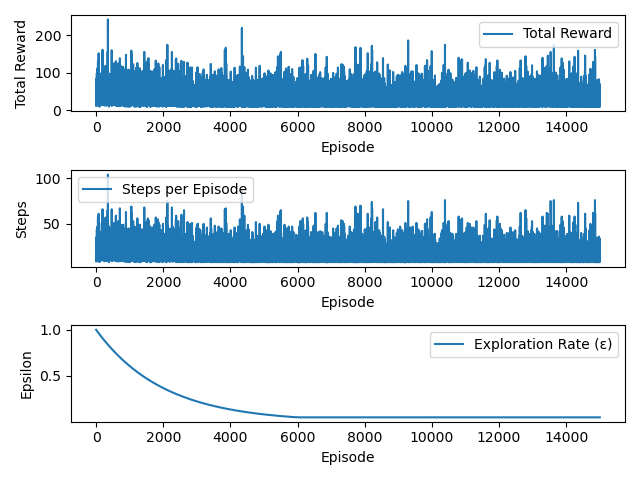
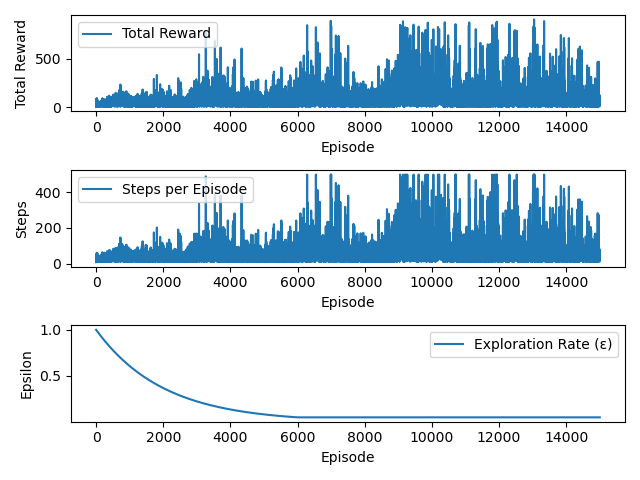
updated reward function using alive, angle, position and velocity penalty

diff --git a/assignments/cart_pole_optimal_control/cart_pole_optimal_control/dqn/dqn_train.py b/assignments/cart_pole_optimal_control/cart_pole_optimal_control/dqn/dqn_train.py
@@ -81,18 +81,15 @@ for episode in range(1, num_episodes + 1):
 
         done = terminated or truncated or violated
 
-        # Extract key values from next_state
-        cart_position = abs(next_state[0])  # Cart position (closer to 0 is better)
-        pole_angle = abs(next_state[2])  # Pole angle (smaller is better)
-
         # **Custom Reward Function**
         if done:
-            reward = -10.0  # Strong death penalty so the agent learns to survive
+            reward = -10.0  # Strong death penalty
         else:
-            base_reward = 1.0  # Small reward for surviving
-            pole_stability = 1.0 - (2.5 * pole_angle)  # Penalize pole angle deviation
-            cart_stability = 1.0 - (0.5 * cart_position)  # Penalize cart displacement
-            reward = base_reward + pole_stability + cart_stability
+            alive_reward = 1.0
+            angle_bonus = 0.5 * (1.0 - abs(next_state[2]) / env.unwrapped.theta_threshold_radians)
+            position_bonus = 0.5 * (1.0 - abs(next_state[0]) / env.unwrapped.x_threshold)
+            velocity_penalty = -0.1 * abs(next_state[3])  # Discourage oscillation
+            reward = alive_reward + angle_bonus + position_bonus + velocity_penalty
 
         # Append earthquake force to the next state
         next_state_with_force = np.append(next_state, earthquake_force)

diff --git a/assignments/cart_pole_optimal_control/cart_pole_optimal_control/dqn/dqn_evaluate.py b/assignments/cart_pole_optimal_control/cart_pole_optimal_control/dqn/dqn_evaluate.py
@@ -25,7 +25,7 @@ agent.q_network.eval()
 # Earthquake Force Parameters
 num_waves = 5
 freq_range = [0.5, 4.0]  # Frequency range in Hz
-base_amplitude = 0  # Base force amplitude in N
+base_amplitude = 15  # Base force amplitude in N
 env_timestep = 0.02  # Default time step for CartPole environment
 frequencies = np.random.uniform(freq_range[0], freq_range[1], num_waves)
 phase_shifts = np.random.uniform(0, 2 * np.pi, num_waves)
